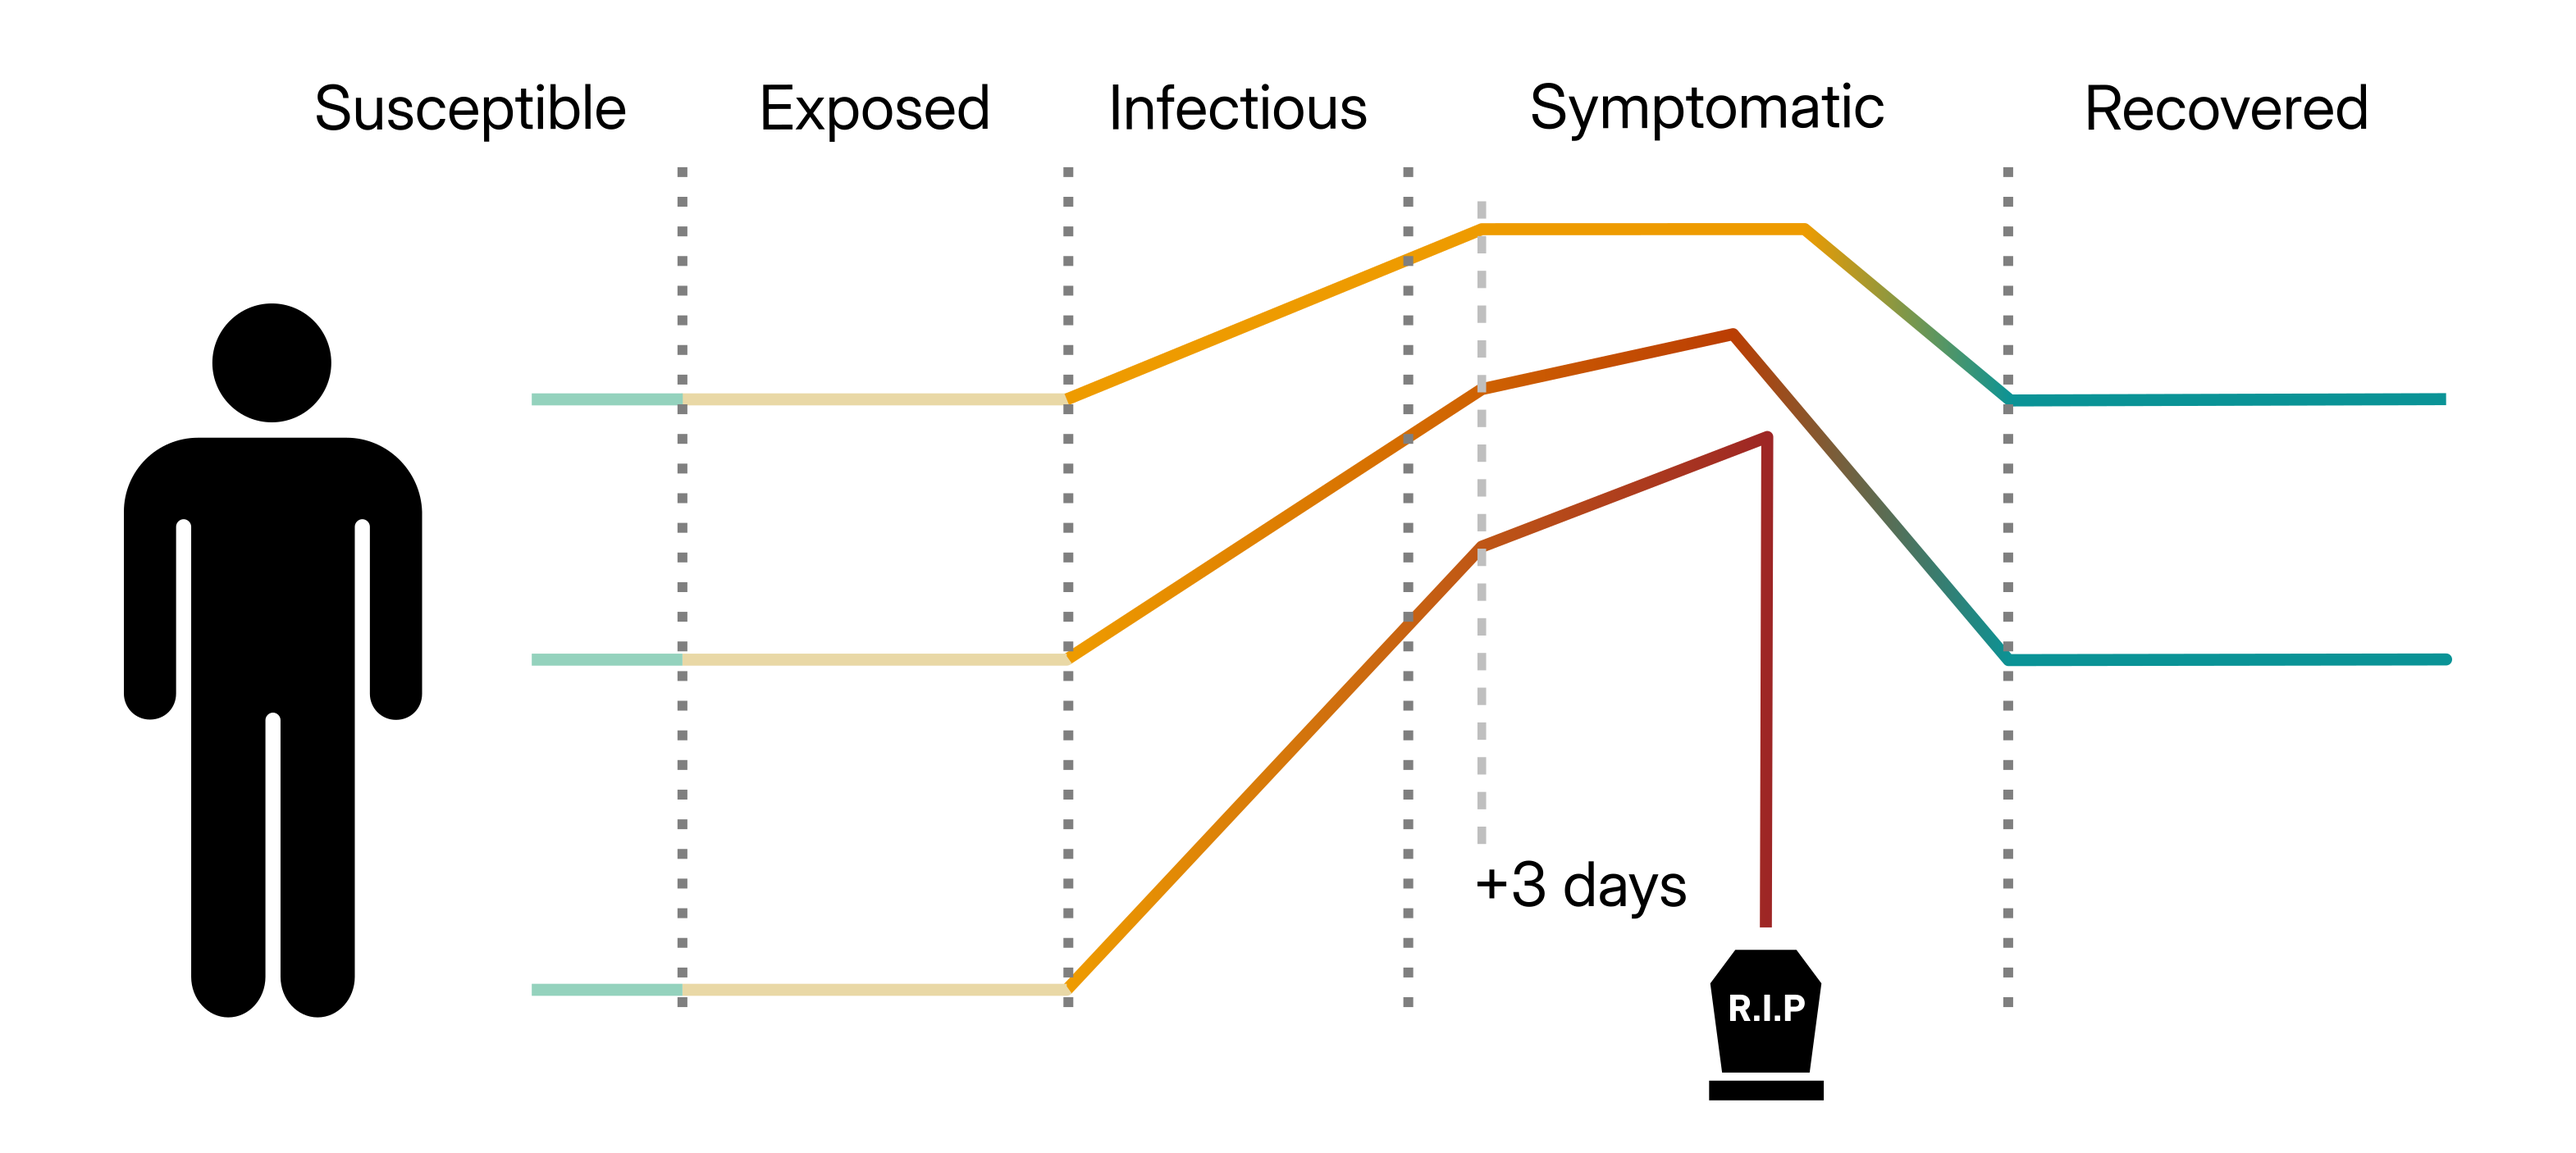
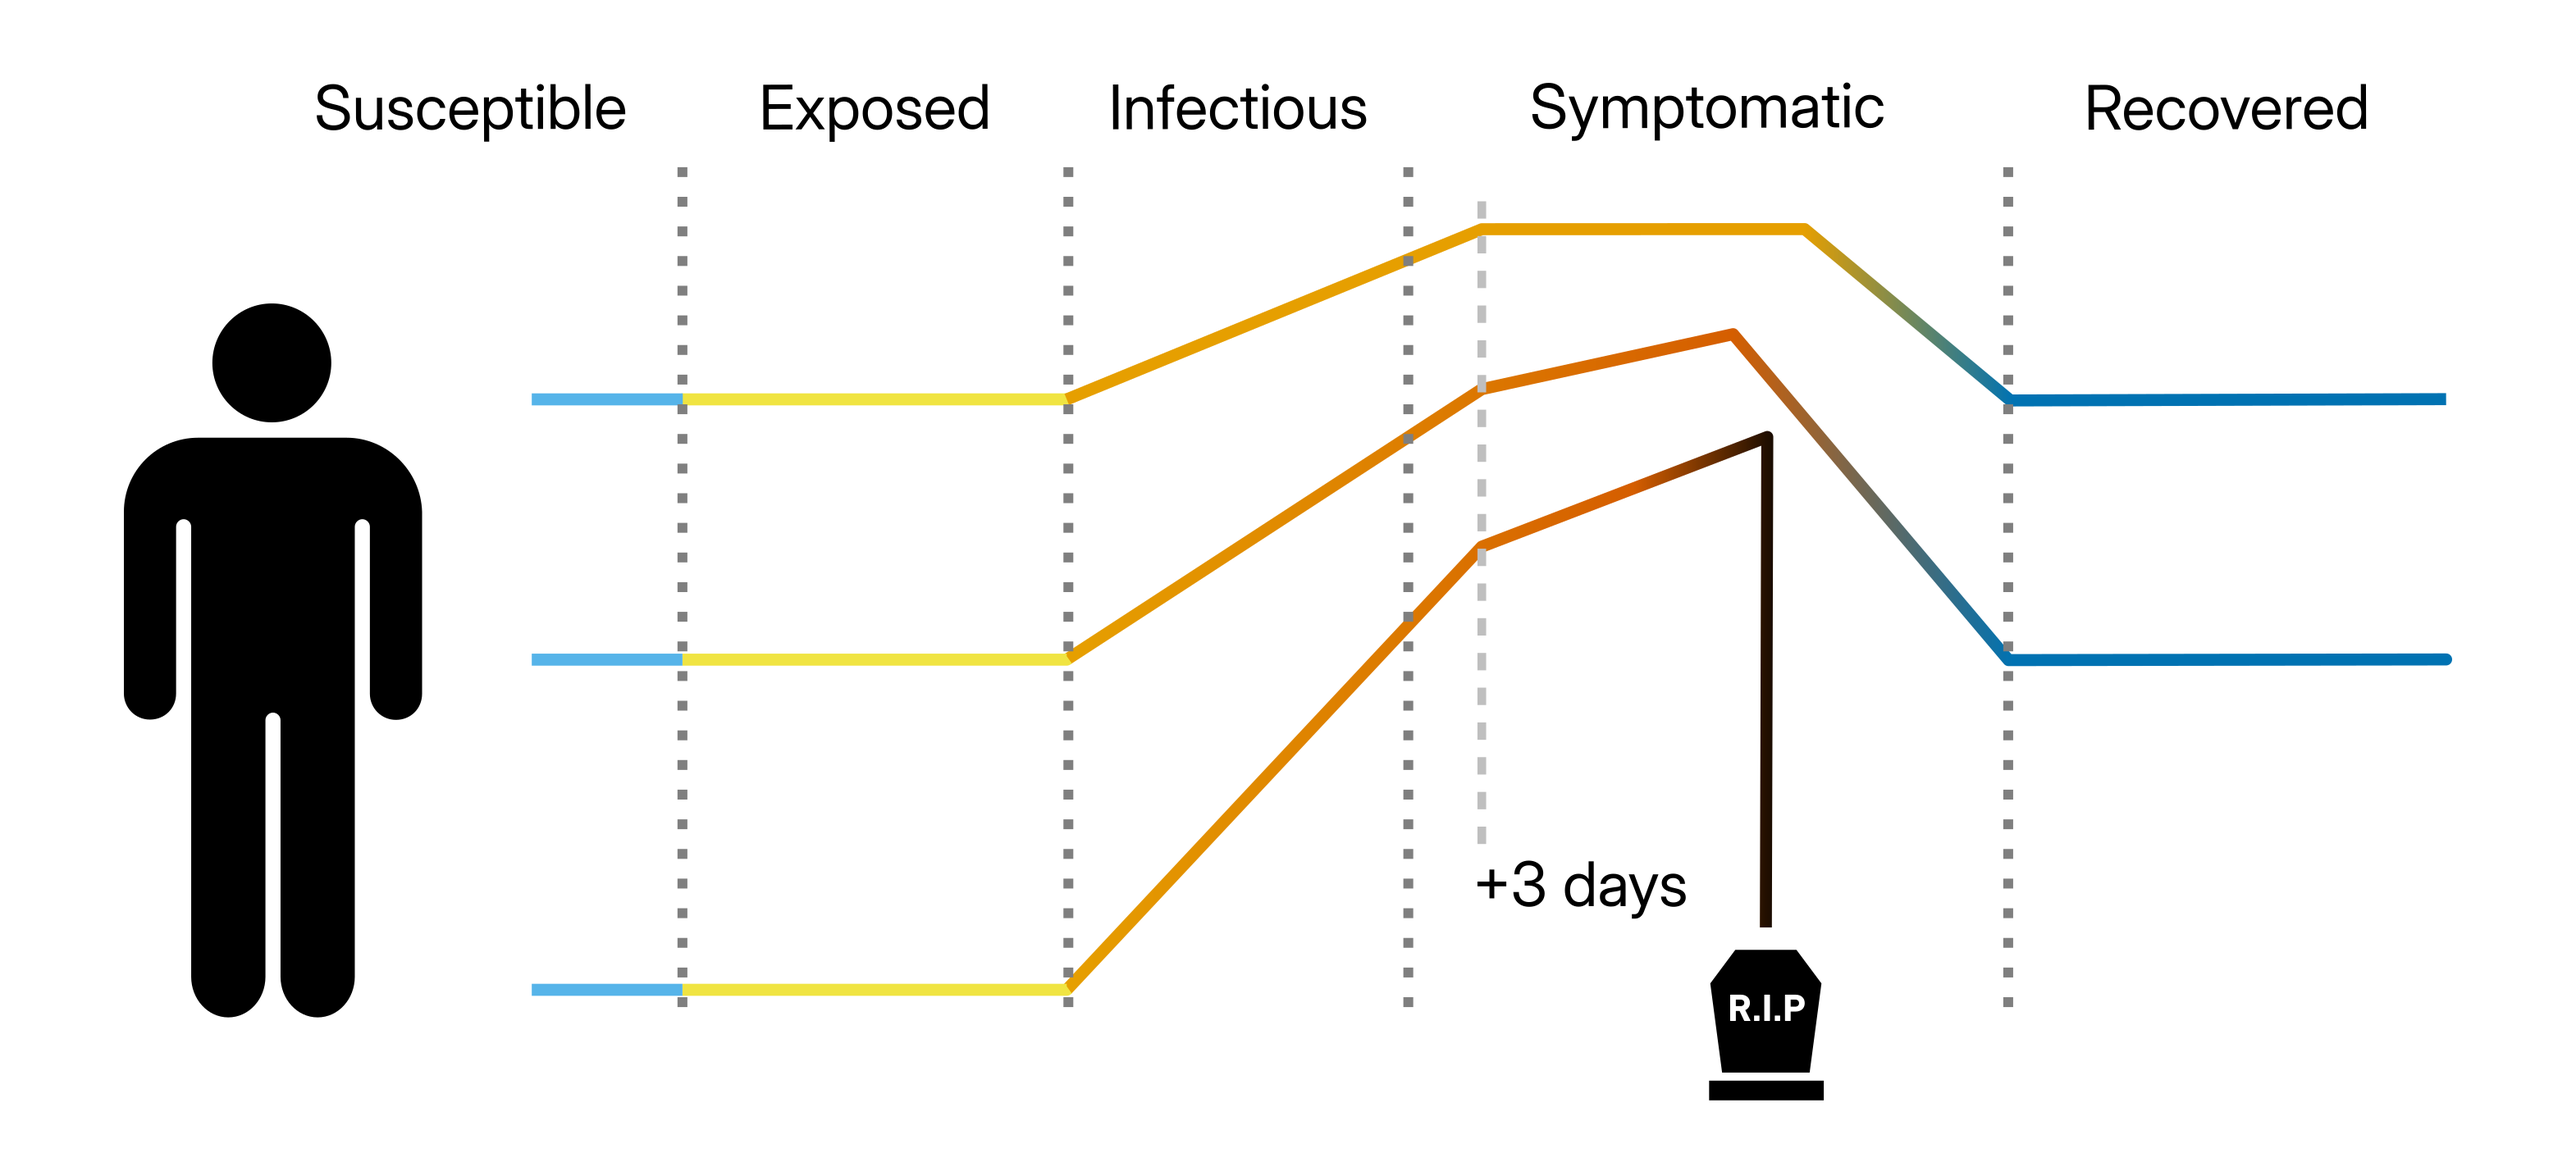
Moved to Okabe-Ito color palette

diff --git a/scripts/make_synthetic_data.py b/scripts/make_synthetic_data.py
@@ -1,18 +1,8 @@
 from bloodsim import BloodSim
-import pickle
-import types
+import os
 import numpy as np
 import pandas as pd
-
-
-class Blood:
-    def __init__(self, n_day, lab_memory, sim):
-        self.n_day = n_day
-        self.lab_memory = {'crp': lab_memory, 'crp_mean': np.array(blood.pop_blood['crp'].iloc[:, 1:].mean())}
-        self.sim = types.SimpleNamespace()
-        self.sim.results = types.SimpleNamespace()
-        self.sim.results.new_infections = np.array(sim.results.new_infections)
-        pass
+from concurrent.futures import ProcessPoolExecutor
 
 
 def make_input_file(n_days = 300, n_dayperson = 250):
@@ -24,15 +14,38 @@ def make_input_file(n_days = 300, n_dayperson = 250):
     return pd.DataFrame(n_dayperson_dict)
 
 
-if __name__=='__main__':
+def run_seed(args):
+    i, n_dayperson = args
     pop_size = int(1e6)
-    n_dayperson = 1250
-    seeds = 1
-    
-    for i in range(seeds):
-        blood = BloodSim(n_person_per_day = make_input_file(n_days = 300, n_dayperson = n_dayperson), end_day = 300, pop_size = pop_size, guest_strategy = 'random', rand_seed = i)
-        blood.sim_run()
-        lossy_blood = Blood(n_day = len(blood.lab_memory['crp'].keys()), lab_memory = blood.lab_memory['crp'], sim = blood.sim)
+    n_days = 300
 
-        with open(f'synthetic_data/synthetic_blood_{n_dayperson}_{i}.pkl', 'wb') as f:
-            pickle.dump(lossy_blood, f)
+    blood = BloodSim(n_person_per_day = make_input_file(n_days = n_days, n_dayperson = n_dayperson), end_day = n_days, pop_size = pop_size, guest_strategy = 'random', rand_seed = i)
+    blood.sim_run()
+
+    crp = pd.DataFrame(blood.lab_memory['crp']).melt(var_name='day', value_name='crp')
+    crp['seed'] = i
+
+    new_infections = pd.DataFrame({
+        'day': np.arange(len(blood.sim.results.new_infections)),
+        'new_infections': np.array(blood.sim.results.new_infections),
+        'seed': i,
+    })
+
+    return crp, new_infections
+
+
+if __name__=='__main__':
+    seeds = 1000
+    workers = 25
+    n_dayperson = 1250
+    
+    os.makedirs('synthetic_data', exist_ok=True)
+
+    with ProcessPoolExecutor(max_workers = workers) as executor:
+        results = list(executor.map(run_seed, [(i, n_dayperson) for i in range(seeds)]))
+
+    crp = pd.concat([x[0] for x in results], ignore_index=True)
+    new_infections = pd.concat([x[1] for x in results], ignore_index=True)
+
+    crp.to_csv(f'synthetic_data/crp_{n_dayperson}.csv', index=False)
+    new_infections.to_csv(f'synthetic_data/new_infections_{n_dayperson}.csv', index=False)
